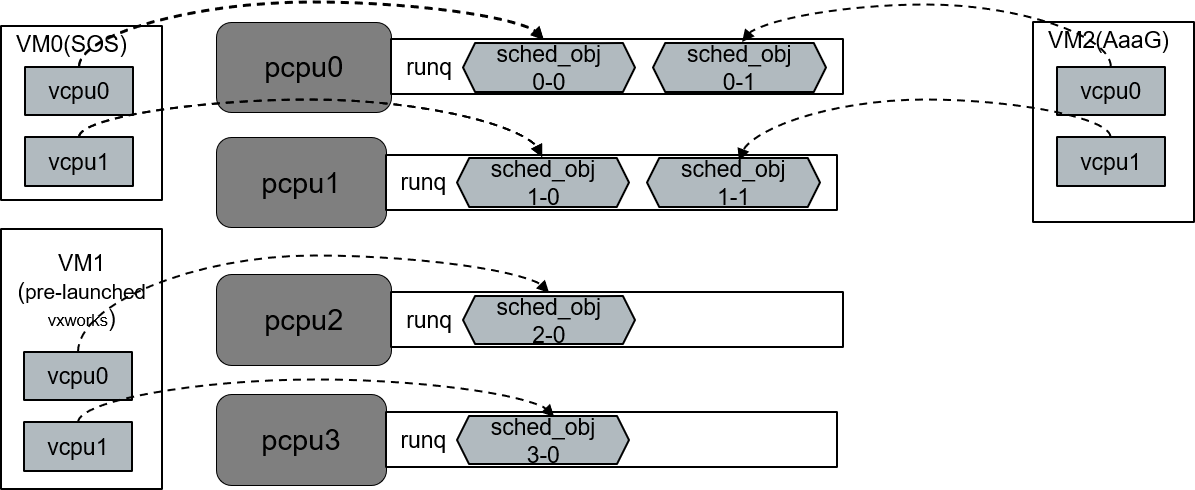
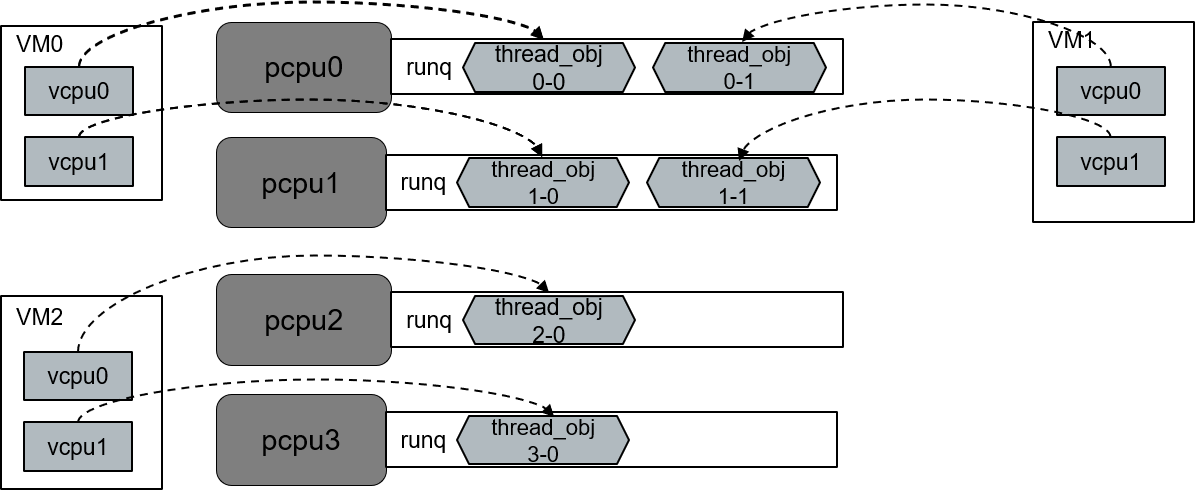
doc: cpu-sharing doc update
Update cpu-sharing document.

diff --git a/doc/tutorials/cpu_sharing.rst b/doc/tutorials/cpu_sharing.rst
@@ -37,21 +37,29 @@ Scheduling initialization is invoked in the hardware management layer.
 .. figure:: images/cpu_sharing_api.png
    :align: center
 
-vCPU affinity
+CPU affinity
 *************
 
-Currently, we do not support vCPU migration; the assignment of vCPU
-mapping to pCPU is statically configured by acrn-dm through
-``--cpu_affinity``. Use these rules to configure the vCPU affinity:
+Currently, we do not support vCPU migration; the assignment of vCPU mapping to
+pCPU is fixed at the time the VM is launched. The statically configured
+cpu_affinity in the VM configuration defines a superset of pCPUs that
+the VM is allowed to run on. One bit in this bitmap indicates that one pCPU
+could be assigned to this VM, and the bit number is the pCPU ID. A pre-launched
+VM is supposed to be launched on exact number of pCPUs that are assigned in
+this bitmap. The vCPU to pCPU mapping is implicitly indicated: vCPU0 maps
+to the pCPU with lowest pCPU ID, vCPU1 maps to the second lowest pCPU ID, and
+so on.
 
-- Only one bit can be set for each affinity item of vCPU.
-- vCPUs in the same VM cannot be assigned to the same pCPU.
+For post-launched VMs, acrn-dm could choose to launch a subset of pCPUs that
+are defined in cpu_affinity by specifying the assigned pCPUs
+(``--cpu_affinity`` option). But it can't assign any pCPUs that are not
+included in the VM's cpu_affinity.
 
 Here is an example for affinity:
 
 - VM0: 2 vCPUs, pinned to pCPU0 and pCPU1
-- VM1: 2 vCPUs, pinned to pCPU2 and pCPU3
-- VM2: 2 vCPUs, pinned to pCPU0 and pCPU1
+- VM1: 2 vCPUs, pinned to pCPU0 and pCPU1
+- VM2: 2 vCPUs, pinned to pCPU2 and pCPU3
 
 .. figure:: images/cpu_sharing_affinity.png
    :align: center
@@ -119,14 +127,19 @@ and BVT (Borrowed Virtual Time) scheduler.
 
 
 Scheduler configuration
-***********************
 
-Two places in the code decide the usage for the scheduler.
+***********************
 
 * The option in Kconfig decides the only scheduler used in runtime.
   ``hypervisor/arch/x86/Kconfig``
 
 .. code-block:: none
+
+  choice
+          prompt "ACRN Scheduler"
+          default SCHED_BVT
+          help
+          Select the CPU scheduler to be used by the hypervisor
 
   config SCHED_BVT
           bool "BVT scheduler"
@@ -137,14 +150,19 @@ Two places in the code decide the usage for the scheduler.
           i.e. higher priority threads get scheduled first, and same priority tasks are
           scheduled per BVT.
 
-The default scheduler is **SCHED_NOOP**. To use the BVT, change it to
-**SCHED_BVT** in the **ACRN Scheduler**.
+The default scheduler is **SCHED_BVT**.
 
-* The cpu_affinity is configured by acrn-dm command.
+* The cpu_affinity could be configured by one of these approaches:
 
-  For example, assign physical CPUs (pCPUs) 1 and 3 to this VM using::
+  - Without ``cpu_affinity`` option in acrn-dm. This launches the user VM
+    on all the pCPUs that are included in the statically configured cpu_affinity_bitmap.
 
-    --cpu_affinity 1,3
+  - With ``cpu_affinity`` option in acrn-dm. This launches the user VM on
+    a subset of the configured cpu_affinity_bitmap pCPUs.
+    
+  For example, assign physical CPUs 0 and 1 to this VM::
+
+	--cpu_affinity 0,1
 
 
 Example
@@ -152,32 +170,36 @@ Example
 
 Use the following settings to support this configuration in the industry scenario:
 
-+---------+-------+-------+-------+
-|pCPU0    |pCPU1  |pCPU2  |pCPU3  |
-+=========+=======+=======+=======+
-|SOS + WaaG       |RT Linux       |
-+-----------------+---------------+
++---------+--------+-------+-------+
+|pCPU0    |pCPU1   |pCPU2  |pCPU3  |
++=========+========+=======+=======+
+|Service VM + Waag |RT Linux       |
++------------------+---------------+
 
-- offline pcpu2-3 in SOS.
+- offline pcpu2-3 in Service VM.
+
 
 - launch guests.
 
-  - launch WaaG with "--cpu_affinity=0,1"
-  - launch RT with "--cpu_affinity=2,3"
+  - launch WaaG with "--cpu_affinity 0,1"
+  - launch RT with "--cpu_affinity 2,3"
 
 
-After you start all VMs, check the vCPU affinities from the Hypervisor
+After you start all VMs, check the CPU affinities from the Hypervisor
 console with the ``vcpu_list`` command:
 
-.. code-block:: console
+.. code-block:: none
 
-   ACRN:\>vcpu_list
+	ACRN:\>vcpu_list
 
-   VM ID    PCPU ID    VCPU ID    VCPU ROLE    VCPU STATE    THREAD STATE
-   =====    =======    =======    =========    ==========    ==========
-     0         0          0       PRIMARY      Running          BLOCKED
-     0         1          0       SECONDARY    Running          BLOCKED
-     1         0          0       PRIMARY      Running          RUNNING
-     1         1          0       SECONDARY    Running          RUNNING
-     2         2          0       PRIMARY      Running          RUNNING
-     2         3          1       SECONDARY    Running          RUNNING
+	VM ID    PCPU ID    VCPU ID    VCPU ROLE    VCPU STATE    THREAD STATE
+	=====    =======    =======    =========    ==========    ==========
+	  0         0          0       PRIMARY      Running          RUNNING
+	  0         1          1       SECONDARY    Running          RUNNING
+	  1         0          0       PRIMARY      Running          RUNNABLE
+	  1         1          1       SECONDARY    Running          BLOCKED
+	  2         2          0       PRIMARY      Running          RUNNING
+	  2         3          1       SECONDARY    Running          RUNNING
+
+Note: the THREAD STATE are instant states, they will change at any time.
+
